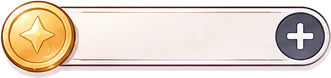
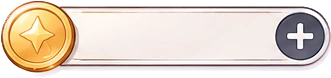
สคริปต์ตัดพื้นขาวแบบ alpha matting (scripts/ui-cutout.py: trimap + closed-form matting + ถอดสีพื้นที่ปนขอบ · ตัดเงาจาง) · ตัด asset kit3 ใหม่ทั้ง 10 ไฟล์ ขนาด/ตำแหน่งเท่าเดิม ขอบเนียนขึ้น ไม่มีฝ้าขาวบนพื้นมืด
Claude-Session: https://claude.ai/code/session_0124HQP4eZq7yjzWuXJC1MPB

diff --git a/scripts/ui-cutout.py b/scripts/ui-cutout.py
@@ -1,0 +1,136 @@
+"""ui-cutout.py — ตัดพื้นหลังสีเรียบ (ปกติเป็นสีขาว) ออกจากรูป UI ที่สร้างจาก AI แบบเนียนที่สุด → PNG/WebP พื้นโปร่งใส
+
+ทำไมไม่ใช้ตัดตามสีอย่างเดียว: รูปพื้นขาวมีขอบนุ่ม (anti-alias) และเงาจางที่ "ผสม" สีขาวเข้าไปแล้ว
+ถ้าตัดตามความขาว ขอบจะเป็นฝ้าขาวเมื่อวางบนพื้นมืด · สคริปต์นี้ทำ 4 ขั้น:
+  1. หาพื้นหลัง: เติมจากขอบรูป (flood fill) เฉพาะพิกเซลใกล้สีพื้น — ช่องขาวด้านใน (แผงครีม วงรูปโปรไฟล์) ไม่โดนลบ
+     (ใส่ --ai ให้ใช้โมเดล ISNet ของ rembg ช่วยดูรูปทรงด้วย เผื่อชิ้นงานที่สีจางติดขอบรูป)
+  2. สร้าง trimap: ข้างในแน่นอน (ทึบ) · ข้างนอกแน่นอน (โปร่ง) · แถบขอบที่ไม่แน่ใจ
+  3. Closed-form alpha matting (pymatting) คำนวณความโปร่งของแถบขอบทีละพิกเซลจากสีจริง — ขอบนุ่มเหมือนต้นฉบับ
+  4. Foreground estimation ถอดสีพื้นที่ปนอยู่ออกจากสีขอบ (ไม่มีฝ้าขาว) แล้วตัดขอบรูปให้พอดีชิ้นงาน
+
+ใช้:
+  pip install numpy pillow scipy pymatting          (ใส่ --ai ต้องมี rembg[cpu] เพิ่ม — โหลดโมเดลครั้งแรก ~180MB)
+  python3 scripts/ui-cutout.py <ไฟล์หรือโฟลเดอร์ต้นฉบับ...> -o <โฟลเดอร์ปลายทาง> [--webp] [--band 8] [--shadow drop|keep] [--ai] [--no-trim]
+ตัวอย่าง:
+  python3 scripts/ui-cutout.py ~/Download/minimal_sakura_ui_assets -o /tmp/cut --webp
+Extend: พื้นหลังไม่ใช่สีขาว → --bg "#f2e6ff" · อยากเก็บแสงเรือง/เงานุ่มไว้ → --shadow keep
+"""
+import argparse
+import os
+import sys
+
+import numpy as np
+from PIL import Image
+from scipy import ndimage
+
+BACKGROUND_TOLERANCE = 12   # ห่างจากสีพื้นไม่เกินนี้ (0–255) ถือว่าเป็นพื้นแน่ ๆ ตอนเติมจากขอบ
+MIN_PIECE_PIXELS = 24       # เศษจุดลอยเล็กกว่านี้ (หลังตัด) ทิ้ง
+SHADOW_CUT = 0.3            # --shadow drop: ความทึบต่ำกว่านี้ (เงา/ฝ้าจางรอบชิ้นงาน) ตัดทิ้ง แล้วยืดค่าที่เหลือให้ขอบยังนุ่ม
+
+
+def parse_color(text):
+    text = text.lstrip('#')
+    return np.array([int(text[i:i + 2], 16) for i in (0, 2, 4)], np.float64)
+
+
+def find_background(rgb, bg_color, tolerance):
+    """พิกเซลพื้นหลังที่ต่อเนื่องจากขอบรูป — ช่องสีพื้นที่ถูกล้อมอยู่ข้างในไม่นับ"""
+    distance = np.abs(rgb - bg_color).max(axis=2)
+    near_bg = distance <= tolerance
+    labels, _ = ndimage.label(near_bg)
+    border = np.concatenate([labels[0], labels[-1], labels[:, 0], labels[:, -1]])
+    edge_labels = np.setdiff1d(np.unique(border), [0])
+    return np.isin(labels, edge_labels), distance
+
+
+def ai_object_mask(image):
+    """รูปทรงชิ้นงานจากโมเดล ISNet (rembg) — ใช้เสริมเมื่อสีชิ้นงานจางจนแยกจากพื้นด้วยสีไม่ได้"""
+    from rembg import new_session, remove
+    session = new_session('isnet-general-use')
+    mask = remove(image.convert('RGB'), session=session, only_mask=True)
+    return np.asarray(mask) > 127
+
+
+def build_trimap(background, band):
+    """1 = ชิ้นงานแน่นอน · 0 = พื้นแน่นอน · 0.5 = แถบขอบให้ matting ตัดสิน"""
+    sure_bg = ndimage.binary_erosion(background, iterations=max(1, band // 2), border_value=1)
+    sure_fg = ndimage.binary_erosion(~background, iterations=band)
+    trimap = np.full(background.shape, 0.5)
+    trimap[sure_bg] = 0.0
+    trimap[sure_fg] = 1.0
+    return trimap
+
+
+def solve_alpha(rgb01, trimap):
+    from pymatting import estimate_alpha_cf, estimate_foreground_ml
+    alpha = estimate_alpha_cf(rgb01, trimap)
+    alpha = np.clip(alpha, 0, 1)
+    foreground = estimate_foreground_ml(rgb01, alpha)
+    return alpha, np.clip(foreground, 0, 1)
+
+
+def drop_specks(alpha):
+    solid = alpha > 0.05
+    labels, count = ndimage.label(solid)
+    if count <= 1:
+        return alpha
+    sizes = ndimage.sum(solid, labels, range(1, count + 1))
+    keep_ids = [i + 1 for i, size in enumerate(sizes) if size >= MIN_PIECE_PIXELS]
+    keep = np.isin(labels, keep_ids)
+    return np.where(keep | ~solid, alpha, 0)
+
+
+def cut_one(path, args):
+    image = Image.open(path).convert('RGB')
+    rgb = np.asarray(image).astype(np.float64)
+    background, _ = find_background(rgb, args.bg, BACKGROUND_TOLERANCE)
+    if args.ai:
+        background &= ~ai_object_mask(image)
+    trimap = build_trimap(background, args.band)
+    alpha, foreground = solve_alpha(rgb / 255.0, trimap)
+    if args.shadow == 'drop':
+        alpha = np.clip((alpha - SHADOW_CUT) / (1 - SHADOW_CUT), 0, 1)
+    alpha = drop_specks(alpha)
+    out = np.dstack([foreground * 255, alpha * 255]).round().astype(np.uint8)
+    result = Image.fromarray(out, 'RGBA')
+    if args.no_trim:
+        return result
+    box = result.getchannel('A').point(lambda v: 255 if v > 2 else 0).getbbox()
+    return result.crop(box) if box else result
+
+
+def list_inputs(paths):
+    for p in paths:
+        if os.path.isdir(p):
+            for name in sorted(os.listdir(p)):
+                if name.lower().endswith(('.png', '.jpg', '.jpeg', '.webp')):
+                    yield os.path.join(p, name)
+        else:
+            yield p
+
+
+def main():
+    ap = argparse.ArgumentParser(description='ตัดพื้นหลังสีเรียบออกจากรูป UI แบบขอบเนียน (alpha matting)')
+    ap.add_argument('inputs', nargs='+')
+    ap.add_argument('-o', '--out', required=True)
+    ap.add_argument('--webp', action='store_true', help='บันทึกเป็น WebP (ค่าเริ่มต้น PNG)')
+    ap.add_argument('--band', type=int, default=8, help='ความกว้างแถบขอบที่ให้ matting คำนวณ (พิกเซล)')
+    ap.add_argument('--shadow', choices=['keep', 'drop'], default='drop', help='drop (ค่าเริ่มต้น) = ตัดเงา/ฝ้าจาง ดูสะอาดบนพื้นมืด · keep = เก็บแสงเรือง (เช่นปุ่มที่ตั้งใจให้เรือง)')
+    ap.add_argument('--bg', type=parse_color, default=parse_color('#ffffff'), help='สีพื้นหลัง')
+    ap.add_argument('--ai', action='store_true', help='ใช้โมเดล ISNet (rembg) ช่วยหารูปทรงชิ้นงาน')
+    ap.add_argument('--no-trim', action='store_true', help='ไม่ตัดขอบรูปให้พอดีชิ้นงาน (คงขนาดเท่าต้นฉบับ)')
+    args = ap.parse_args()
+    os.makedirs(args.out, exist_ok=True)
+    for path in list_inputs(args.inputs):
+        result = cut_one(path, args)
+        stem = os.path.splitext(os.path.basename(path))[0]
+        target = os.path.join(args.out, stem + ('.webp' if args.webp else '.png'))
+        if args.webp:
+            result.save(target, 'WEBP', quality=92, method=6)
+        else:
+            result.save(target, optimize=True)
+        print(f'{path} → {target} {result.size}')
+
+
+if __name__ == '__main__':
+    sys.exit(main())
